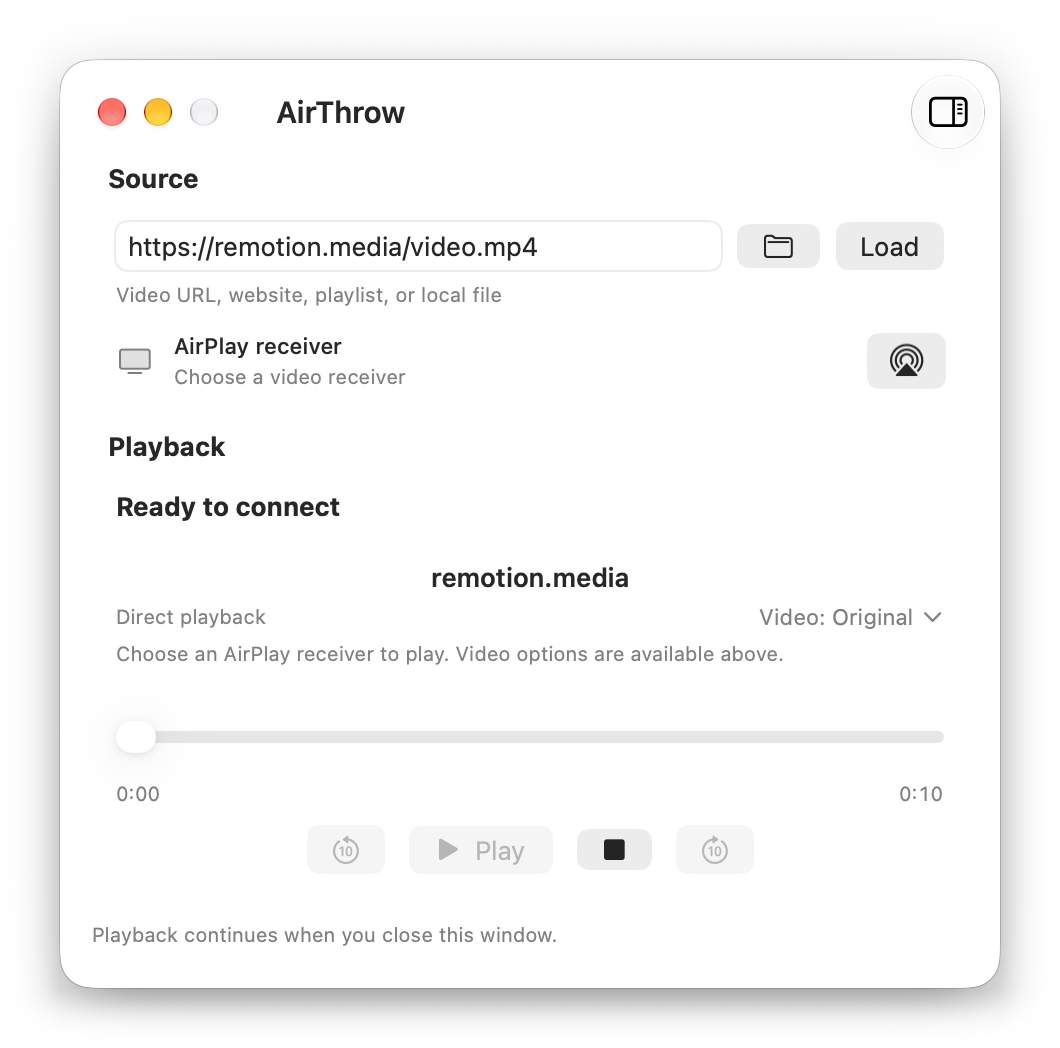
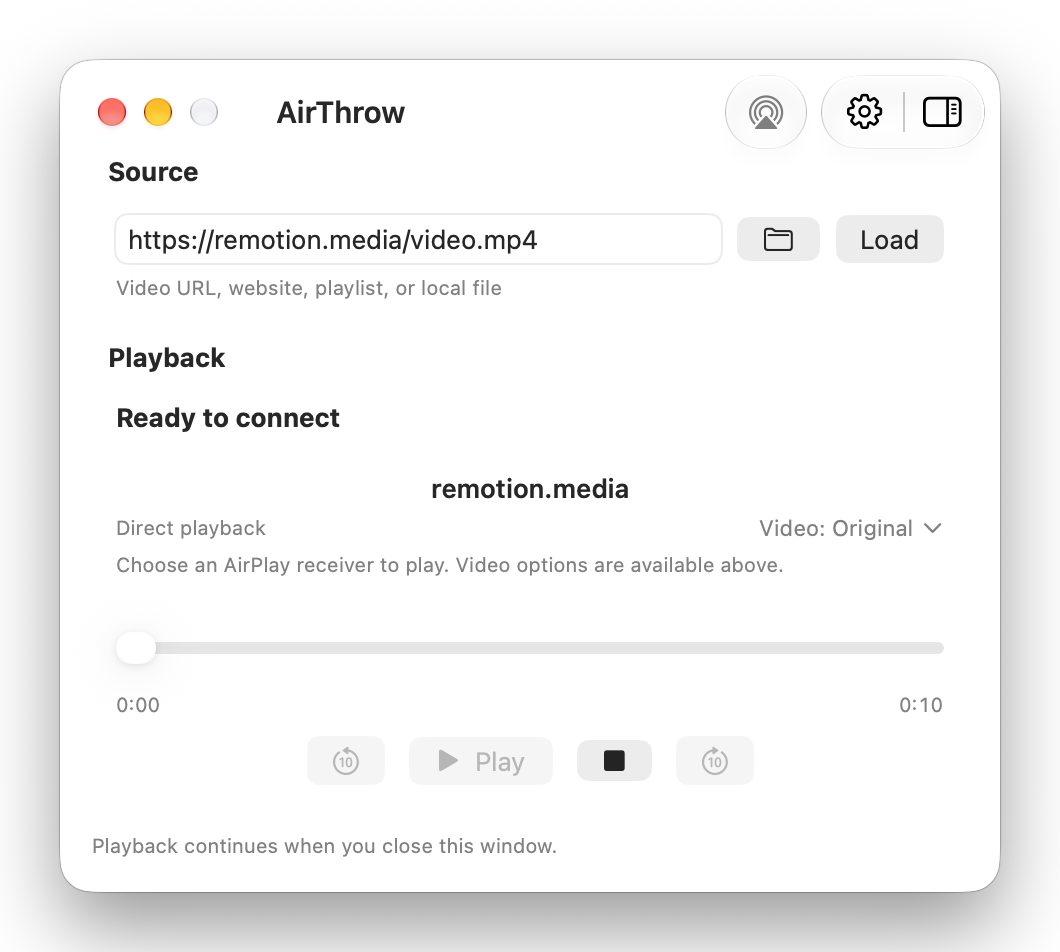
Integrate settings into the controller window

diff --git a/Sources/AirThrowApp/App.swift b/Sources/AirThrowApp/App.swift
@@ -26,7 +26,7 @@ final class AppDelegate: NSObject, NSApplicationDelegate, NSMenuDelegate, NSWind
     private let presentation = ControllerPresentation()
     private let server = CommandServer()
     private var window: NSWindow?
-    private var settingsWindow: NSWindow?
+    private var windowControls: NSToolbarItemGroup?
     private var splitViewController: NSSplitViewController?
     private var inspectorItem: NSSplitViewItem?
     private var inspectorObservation: NSKeyValueObservation?
@@ -75,10 +75,17 @@ final class AppDelegate: NSObject, NSApplicationDelegate, NSMenuDelegate, NSWind
             .sink { [weak self] snapshot in
                 self?.refreshOpenMenu(snapshot)
         }
-        presentationObservation = presentation.$playlistVisible
-            .removeDuplicates()
-            .sink { [weak self] visible in
+        presentationObservation = Publishers.CombineLatest(
+            presentation.$playlistVisible.removeDuplicates(),
+            presentation.$settingsVisible.removeDuplicates())
+            .sink { [weak self] visible, settingsVisible in
+                // Settings scrolls behind the toolbar; the compact player
+                // retains its original transparent titlebar and spacing.
+                self?.window?.titlebarAppearsTransparent = !settingsVisible
+                self?.window?.titlebarSeparatorStyle = settingsVisible ? .automatic : .none
                 self?.setInspector(collapsed: !visible)
+                self?.windowControls?.setSelected(settingsVisible, at: 0)
+                self?.windowControls?.setSelected(visible, at: 1)
             }
         didFinishLaunching = true
         openPendingFiles()
@@ -102,8 +109,14 @@ final class AppDelegate: NSObject, NSApplicationDelegate, NSMenuDelegate, NSWind
     }
 
     @objc func showWindow() {
+        presentation.settingsVisible = false
+        revealWindow()
+    }
+
+    private func revealWindow() {
         if window == nil {
-            let window = NSWindow(contentRect: NSRect(x: 0, y: 0, width: ControllerMetrics.width, height: Self.controllerHeight), styleMask: [.titled, .closable, .miniaturizable, .resizable, .fullSizeContentView], backing: .buffered, defer: false)
+            let window = ControllerWindow(contentRect: NSRect(x: 0, y: 0, width: ControllerMetrics.width, height: Self.controllerHeight), styleMask: [.titled, .closable, .miniaturizable, .resizable, .fullSizeContentView], backing: .buffered, defer: false)
+            window.presentation = presentation
             window.title = "AirThrow"
             window.backgroundColor = SurfaceColor.window
             window.titlebarAppearsTransparent = true
@@ -111,7 +124,8 @@ final class AppDelegate: NSObject, NSApplicationDelegate, NSMenuDelegate, NSWind
             window.isReleasedWhenClosed = false
             window.delegate = self
 
-            let mainHosting = NSHostingController(rootView: ControllerView(controller: controller))
+            let mainHosting = NSHostingController(rootView: ControllerWindowView(
+                controller: controller, cookieStatus: cookieStatus, presentation: presentation))
             mainHosting.sizingOptions = []
             mainHosting.preferredContentSize = NSSize(width: ControllerMetrics.width, height: Self.controllerHeight)
             let playlistHosting = NSHostingController(rootView: PlaylistPanel(controller: controller))
@@ -159,11 +173,12 @@ final class AppDelegate: NSObject, NSApplicationDelegate, NSMenuDelegate, NSWind
     // MARK: - Toolbar
 
     func toolbarDefaultItemIdentifiers(_ toolbar: NSToolbar) -> [NSToolbarItem.Identifier] {
-        [.flexibleSpace, NSToolbarItem.Identifier("AirPlayReceiver"), .toggleInspector]
+        [.flexibleSpace, NSToolbarItem.Identifier("AirPlayReceiver"), .space,
+         NSToolbarItem.Identifier("WindowControls")]
     }
 
     func toolbarAllowedItemIdentifiers(_ toolbar: NSToolbar) -> [NSToolbarItem.Identifier] {
-        [.flexibleSpace, NSToolbarItem.Identifier("AirPlayReceiver"), .toggleInspector]
+        toolbarDefaultItemIdentifiers(toolbar)
     }
 
     func toolbar(_ toolbar: NSToolbar, itemForItemIdentifier itemIdentifier: NSToolbarItem.Identifier,
@@ -177,14 +192,33 @@ final class AppDelegate: NSObject, NSApplicationDelegate, NSMenuDelegate, NSWind
                 .frame(width: 40, height: 30))
             return item
         }
-        guard itemIdentifier == .toggleInspector else { return nil }
-        let item = NSToolbarItem(itemIdentifier: itemIdentifier)
-        item.label = "Playlist"
-        item.paletteLabel = "Playlist"
-        item.toolTip = "Show or hide the playlist"
-        item.target = splitViewController
-        item.action = #selector(NSSplitViewController.toggleInspector(_:))
-        return item
+        guard itemIdentifier == NSToolbarItem.Identifier("WindowControls"),
+              let settingsImage = NSImage(systemSymbolName: "gearshape", accessibilityDescription: "Settings"),
+              let playlistImage = NSImage(systemSymbolName: "sidebar.right", accessibilityDescription: "Playlist")
+        else { return nil }
+        let group = NSToolbarItemGroup(itemIdentifier: itemIdentifier,
+            images: [settingsImage, playlistImage], selectionMode: .selectAny,
+            labels: ["Settings", "Playlist"], target: self,
+            action: #selector(toggleWindowControl(_:)))
+        group.label = "Window controls"
+        group.controlRepresentation = .expanded
+        group.setSelected(presentation.settingsVisible, at: 0)
+        group.setSelected(presentation.playlistVisible, at: 1)
+        if let control = group.view as? NSSegmentedControl {
+            control.setToolTip("Show or hide Settings (⌘,)", forSegment: 0)
+            control.setToolTip("Show or hide the playlist", forSegment: 1)
+        }
+        windowControls = group
+        return group
+    }
+
+    @objc private func toggleWindowControl(_ sender: NSToolbarItemGroup) {
+        if sender.selectedIndex == 0 {
+            window?.makeFirstResponder(nil)
+            presentation.settingsVisible.toggle()
+        } else if sender.selectedIndex == 1 {
+            presentation.playlistVisible.toggle()
+        }
     }
 
     /// Horizontal resizing only: the proposed width is honored, the height is
@@ -215,20 +249,9 @@ final class AppDelegate: NSObject, NSApplicationDelegate, NSMenuDelegate, NSWind
     }
 
     @objc private func showSettings() {
-        if settingsWindow == nil {
-            let window = NSWindow(contentRect: NSRect(x: 0, y: 0, width: 440, height: 560),
-                                  styleMask: [.titled, .closable, .fullSizeContentView], backing: .buffered, defer: false)
-            window.title = "AirThrow Settings"
-            window.backgroundColor = .textBackgroundColor
-            window.titlebarAppearsTransparent = true
-            window.titlebarSeparatorStyle = .none
-            window.isReleasedWhenClosed = false
-            window.contentView = NSHostingView(rootView: SettingsView(controller: controller, cookieStatus: cookieStatus))
-            window.center()
-            settingsWindow = window
-        }
-        NSApp.activate(ignoringOtherApps: true)
-        settingsWindow?.makeKeyAndOrderFront(nil)
+        revealWindow()
+        window?.makeFirstResponder(nil)
+        presentation.settingsVisible = true
     }
 
     func applicationShouldHandleReopen(_ sender: NSApplication, hasVisibleWindows flag: Bool) -> Bool {
@@ -479,6 +502,21 @@ final class AppDelegate: NSObject, NSApplicationDelegate, NSMenuDelegate, NSWind
         }
     }
 
+}
+
+/// Escape dismisses the Settings page through the native responder chain,
+/// including when focus is on the window rather than a form control.
+@MainActor
+private final class ControllerWindow: NSWindow {
+    weak var presentation: ControllerPresentation?
+
+    override func cancelOperation(_ sender: Any?) {
+        if presentation?.settingsVisible == true {
+            presentation?.settingsVisible = false
+        } else {
+            super.cancelOperation(sender)
+        }
+    }
 }
 
 @MainActor

diff --git a/Sources/AirThrowApp/SettingsView.swift b/Sources/AirThrowApp/SettingsView.swift
@@ -5,7 +5,7 @@ import SwiftUI
 import AirThrowCore
 #endif
 
-/// Cookie-source check state for the Settings window. Held by the app delegate
+/// Cookie-source check state for the Settings page. Held by the app delegate
 /// so the view can observe it without a `@State` macro (unavailable to the
 /// Command Line Tools SwiftUI build).
 @MainActor
@@ -116,6 +116,7 @@ struct SettingsView: View {
                 Toggle("Show a waiting screen on the TV", isOn: Binding(
                     get: { controller.showReceiverWaitingScreen },
                     set: { controller.setShowReceiverWaitingScreen($0) }))
+                    .background(SettingsScrollStyle().allowsHitTesting(false))
                 Text("When choosing a receiver with no video loaded, show AirThrow on a black background. Stays on until you load a video, press Stop, or leave on the TV.")
                     .font(.caption).foregroundStyle(.secondary)
                     .fixedSize(horizontal: false, vertical: true)
@@ -173,10 +174,52 @@ struct SettingsView: View {
         }
         .formStyle(.grouped)
         .scrollContentBackground(.hidden)
-        .padding(8)
-        .frame(width: 440, height: 560)
-        .background(Color(nsColor: .textBackgroundColor))
+        .contentMargins(.top, 0, for: .scrollContent)
+        .settingsScrollEdgeEffect()
+        .padding(.horizontal, 8)
+        .padding(.bottom, 8)
+        .frame(maxWidth: .infinity, maxHeight: .infinity)
         .onAppear { cookieStatus.discoverBrowsers() }
+    }
+}
+
+private extension View {
+    @ViewBuilder
+    func settingsScrollEdgeEffect() -> some View {
+        if #available(macOS 26, *) {
+            scrollEdgeEffectStyle(.soft, for: .top)
+        } else {
+            self
+        }
+    }
+}
+
+/// Apply AppKit's fading overlay indicators to this Form's own scroll view.
+/// Mount inside a row so the lookup stays within the Settings scroll hierarchy.
+private struct SettingsScrollStyle: NSViewRepresentable {
+    func makeNSView(context: Context) -> ScrollStyleView { ScrollStyleView() }
+    func updateNSView(_ view: ScrollStyleView, context: Context) {
+        view.applyStyle()
+    }
+
+    final class ScrollStyleView: NSView {
+        override func viewDidMoveToWindow() {
+            super.viewDidMoveToWindow()
+            applyStyle()
+        }
+
+        override func viewDidMoveToSuperview() {
+            super.viewDidMoveToSuperview()
+            applyStyle()
+        }
+
+        func applyStyle() {
+            // SwiftUI can attach the row before its scroll ancestor is ready.
+            DispatchQueue.main.async { [weak self] in
+                guard let scrollView = self?.enclosingScrollView else { return }
+                scrollView.scrollerStyle = .overlay
+            }
+        }
     }
 }
 

diff --git a/Sources/AirThrowApp/ControllerView.swift b/Sources/AirThrowApp/ControllerView.swift
@@ -28,6 +28,33 @@ enum SurfaceColor {
 @MainActor
 final class ControllerPresentation: ObservableObject {
     @Published var playlistVisible = false
+    @Published var settingsVisible = false
+}
+
+/// Keep the controller alive while Settings covers it, retaining source input
+/// and the playback view's local state across page changes.
+struct ControllerWindowView: View {
+    @ObservedObject var controller: PlaybackController
+    @ObservedObject var cookieStatus: CookieStatusModel
+    @ObservedObject var presentation: ControllerPresentation
+    @Environment(\.accessibilityReduceMotion) private var reduceMotion
+
+    var body: some View {
+        ZStack {
+            ControllerView(controller: controller)
+                .opacity(presentation.settingsVisible ? 0 : 1)
+                .allowsHitTesting(!presentation.settingsVisible)
+                .disabled(presentation.settingsVisible)
+                .accessibilityHidden(presentation.settingsVisible)
+
+            if presentation.settingsVisible {
+                SettingsView(controller: controller, cookieStatus: cookieStatus)
+                    .transition(.opacity)
+            }
+        }
+        .animation(reduceMotion ? nil : .easeOut(duration: 0.18),
+                   value: presentation.settingsVisible)
+    }
 }
 
 struct ControllerView: View {
